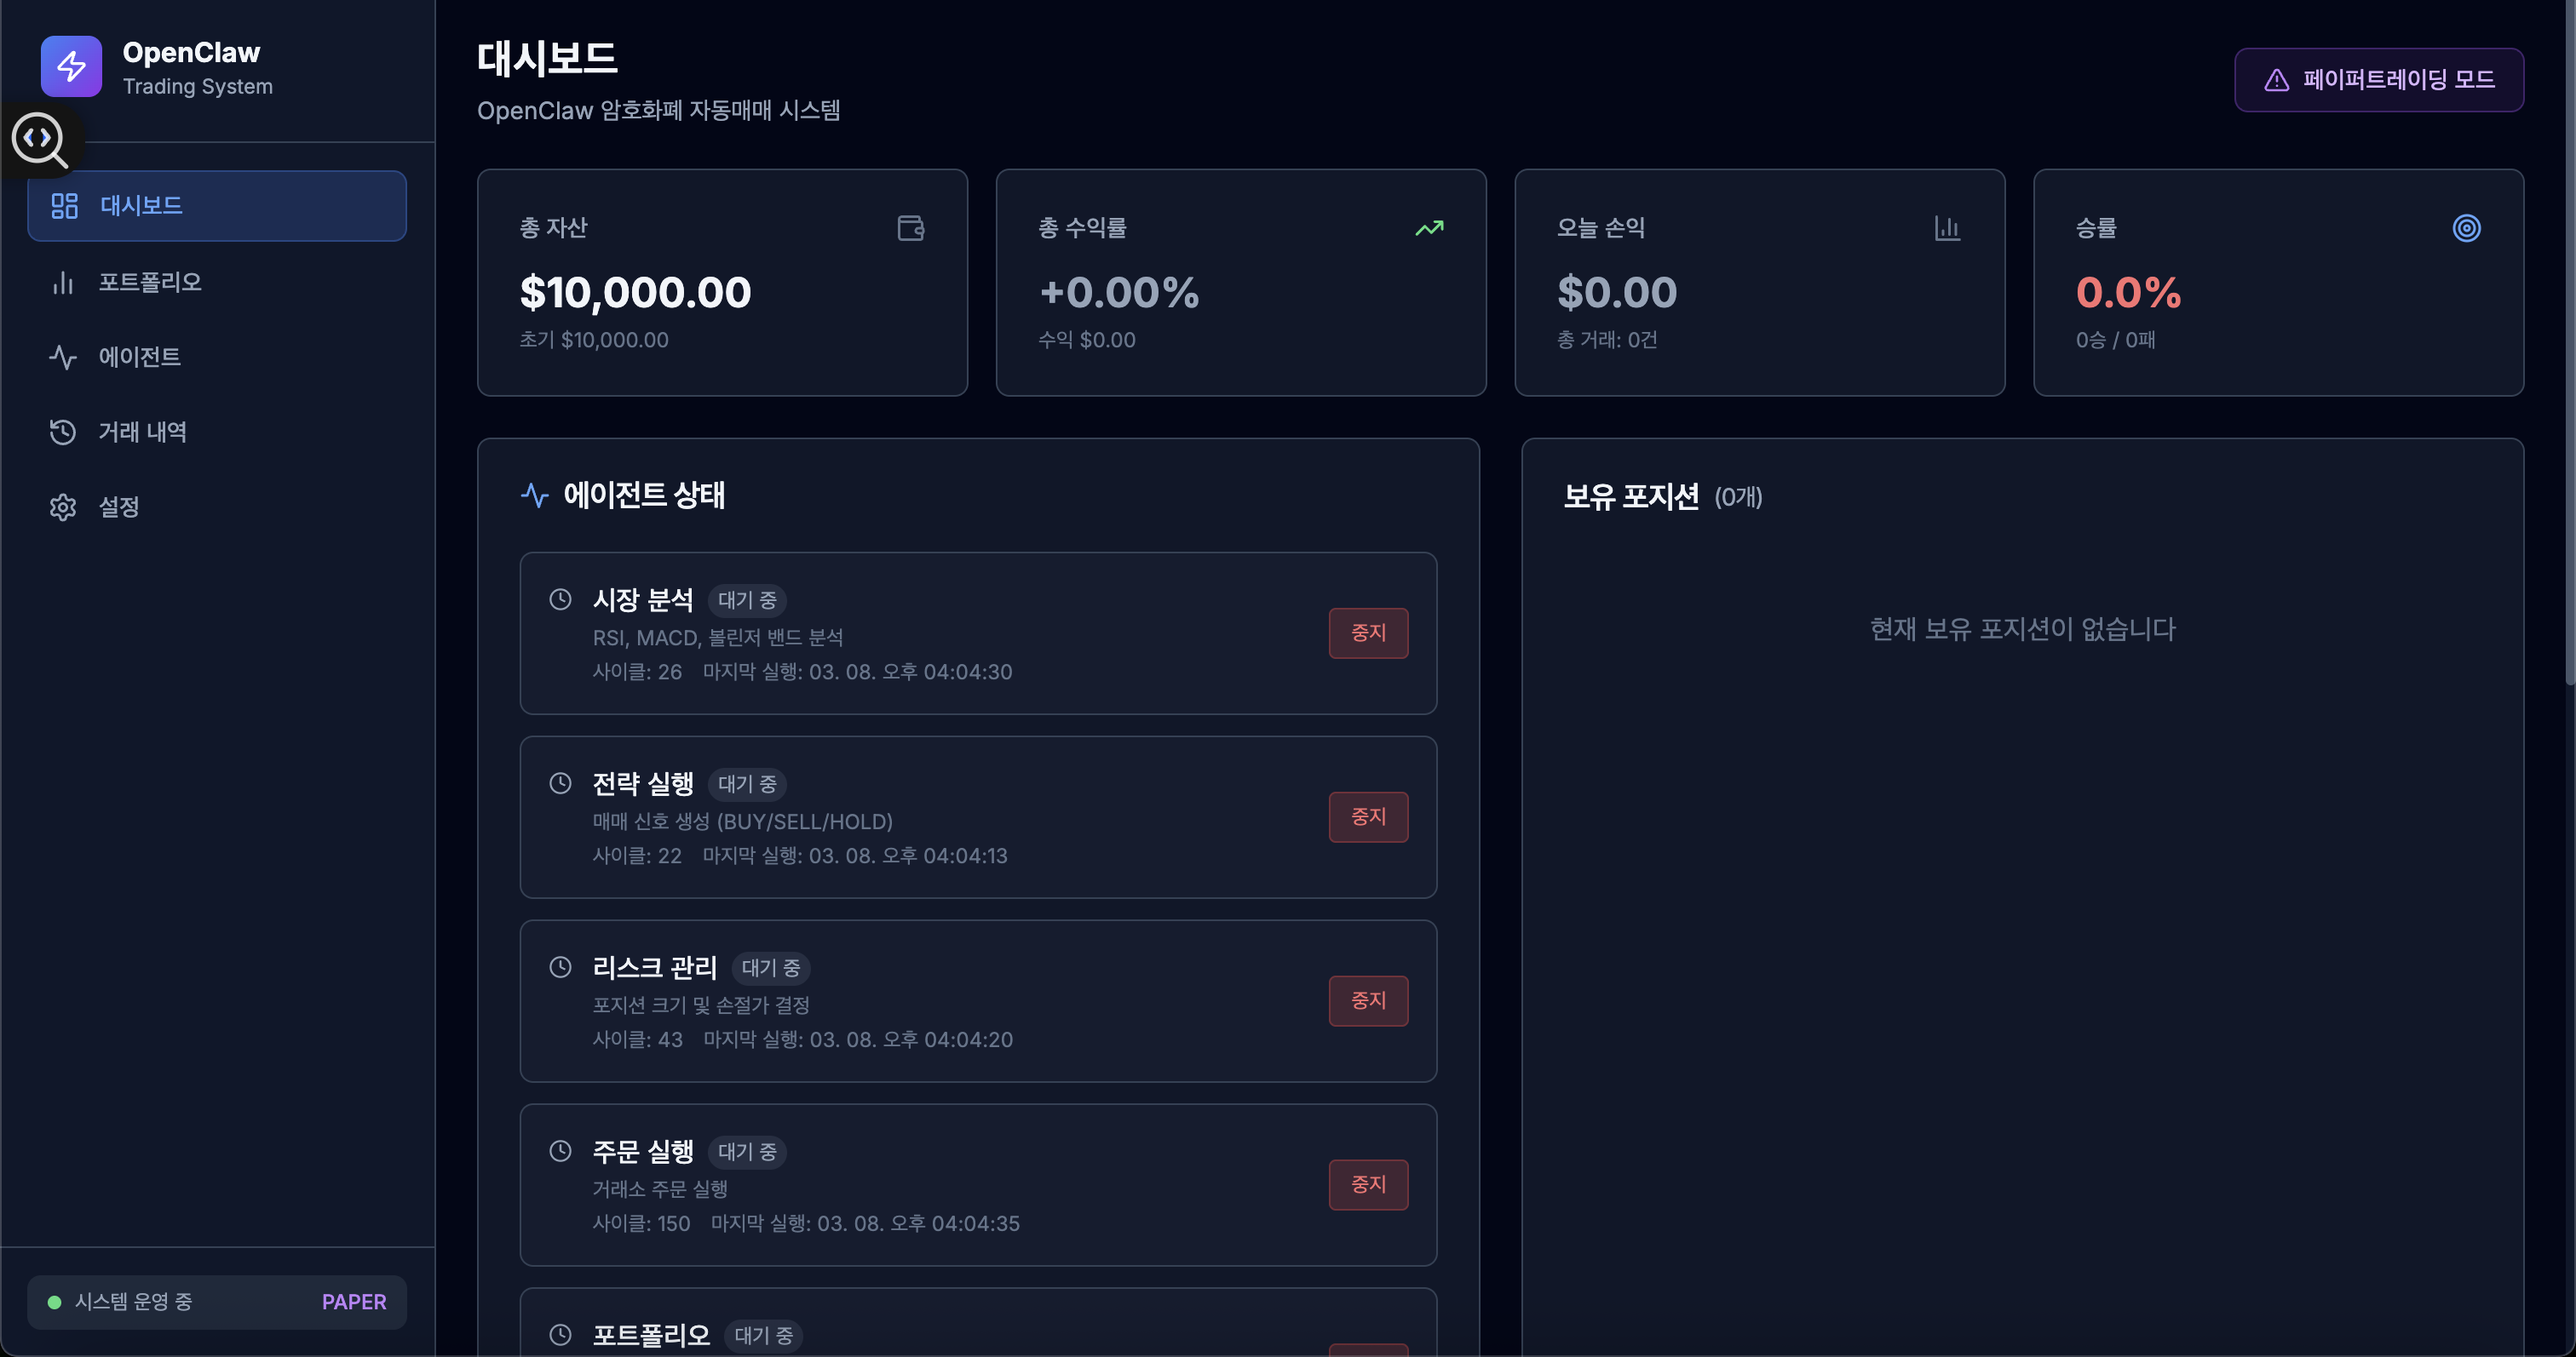
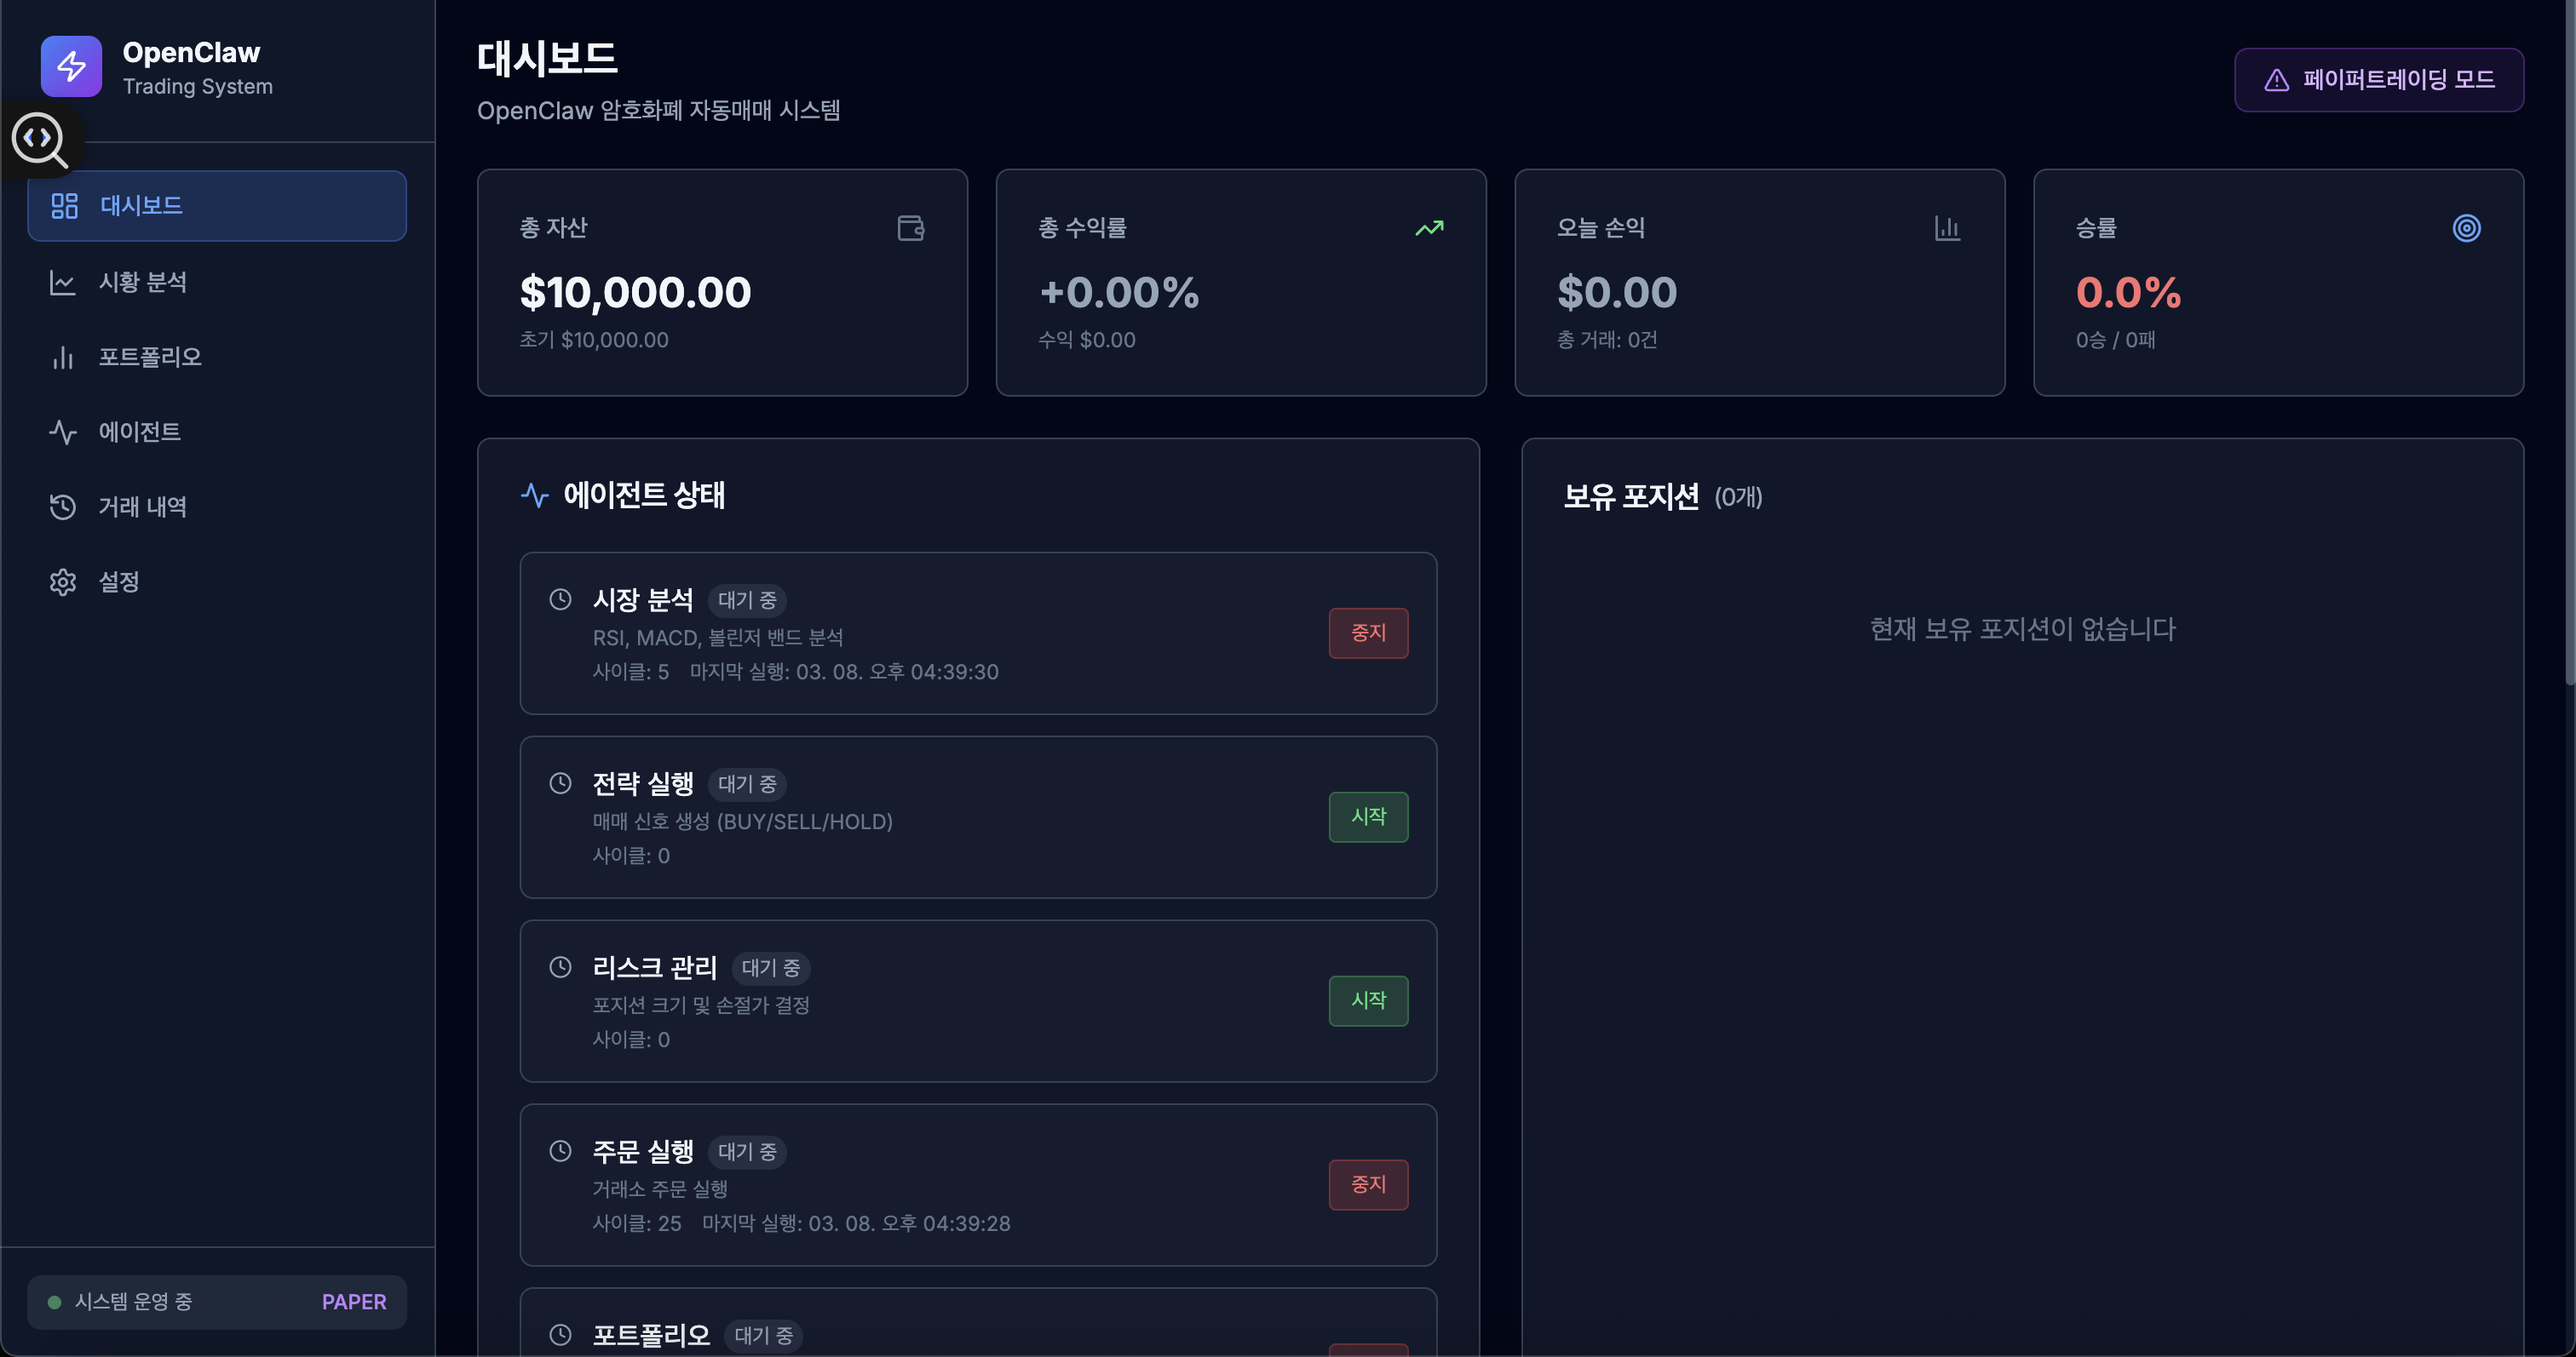
📸 feat: 시황 분석 스크린샷 추가 및 자동 스크린샷 pre-commit hook 설정
- docs/screenshots/market.png 추가 (시황 분석 화면)
- README.md 시황 분석 섹션 추가
- .git/hooks/pre-commit: 커밋 시 자동 스크린샷 캡처 hook 추가

diff --git a/README.md b/README.md
@@ -18,6 +18,11 @@
 
 ![대시보드](docs/screenshots/dashboard.png)
 
+### 📈 시황 분석
+> BTC/USDT 실시간 캔들차트, MA20/50/200, 볼린저밴드, RSI·MACD 기술 지표
+
+![시황분석](docs/screenshots/market.png)
+
 ### 💼 포트폴리오 현황
 > 총 자산 가치, 보유 포지션, 손익(PnL) 실시간 추적
 
